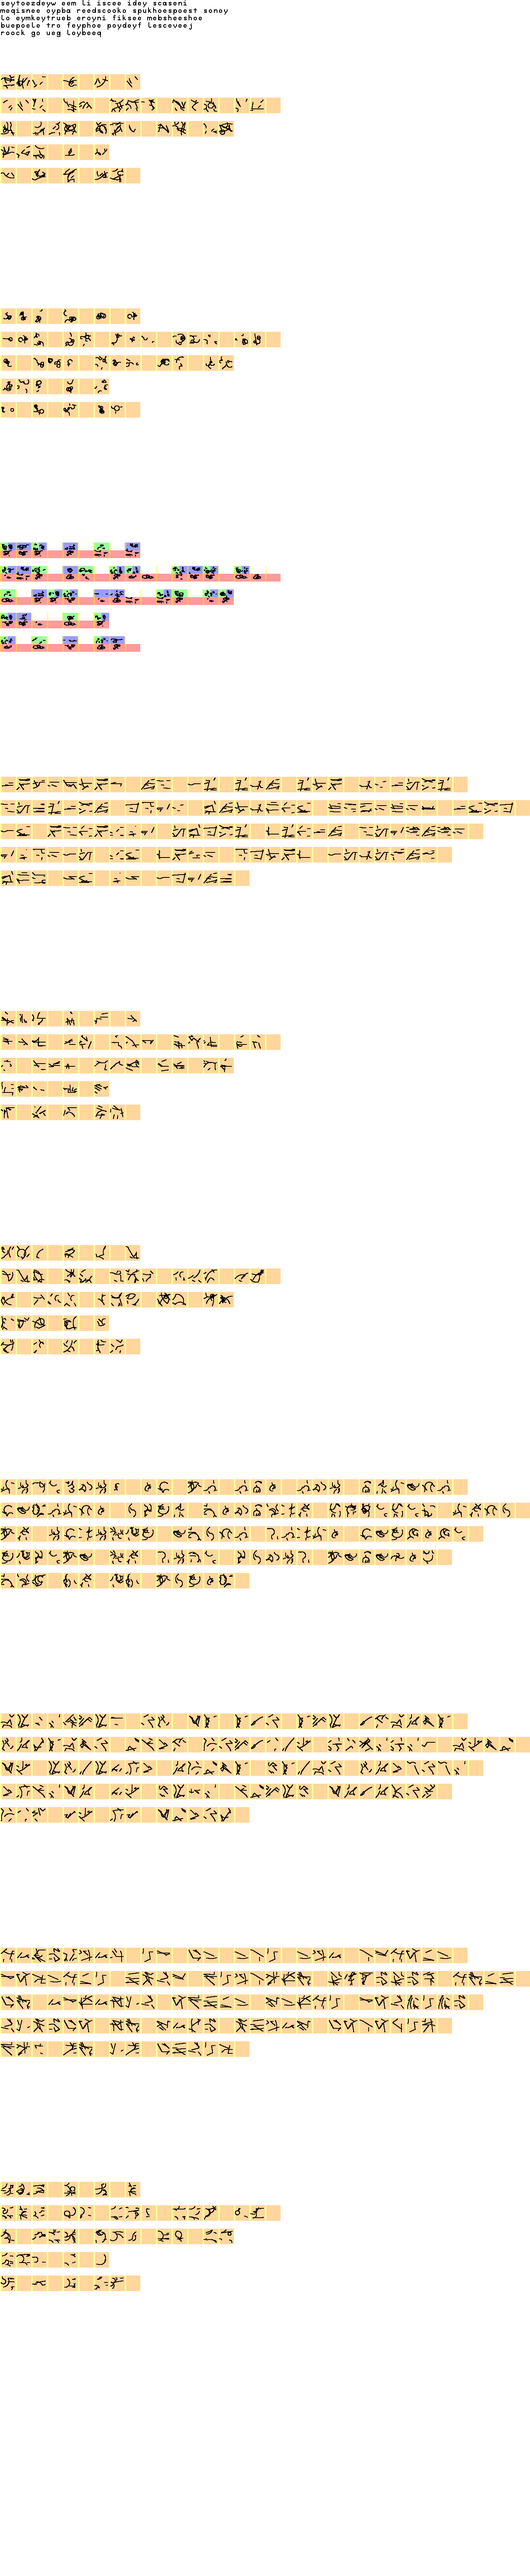
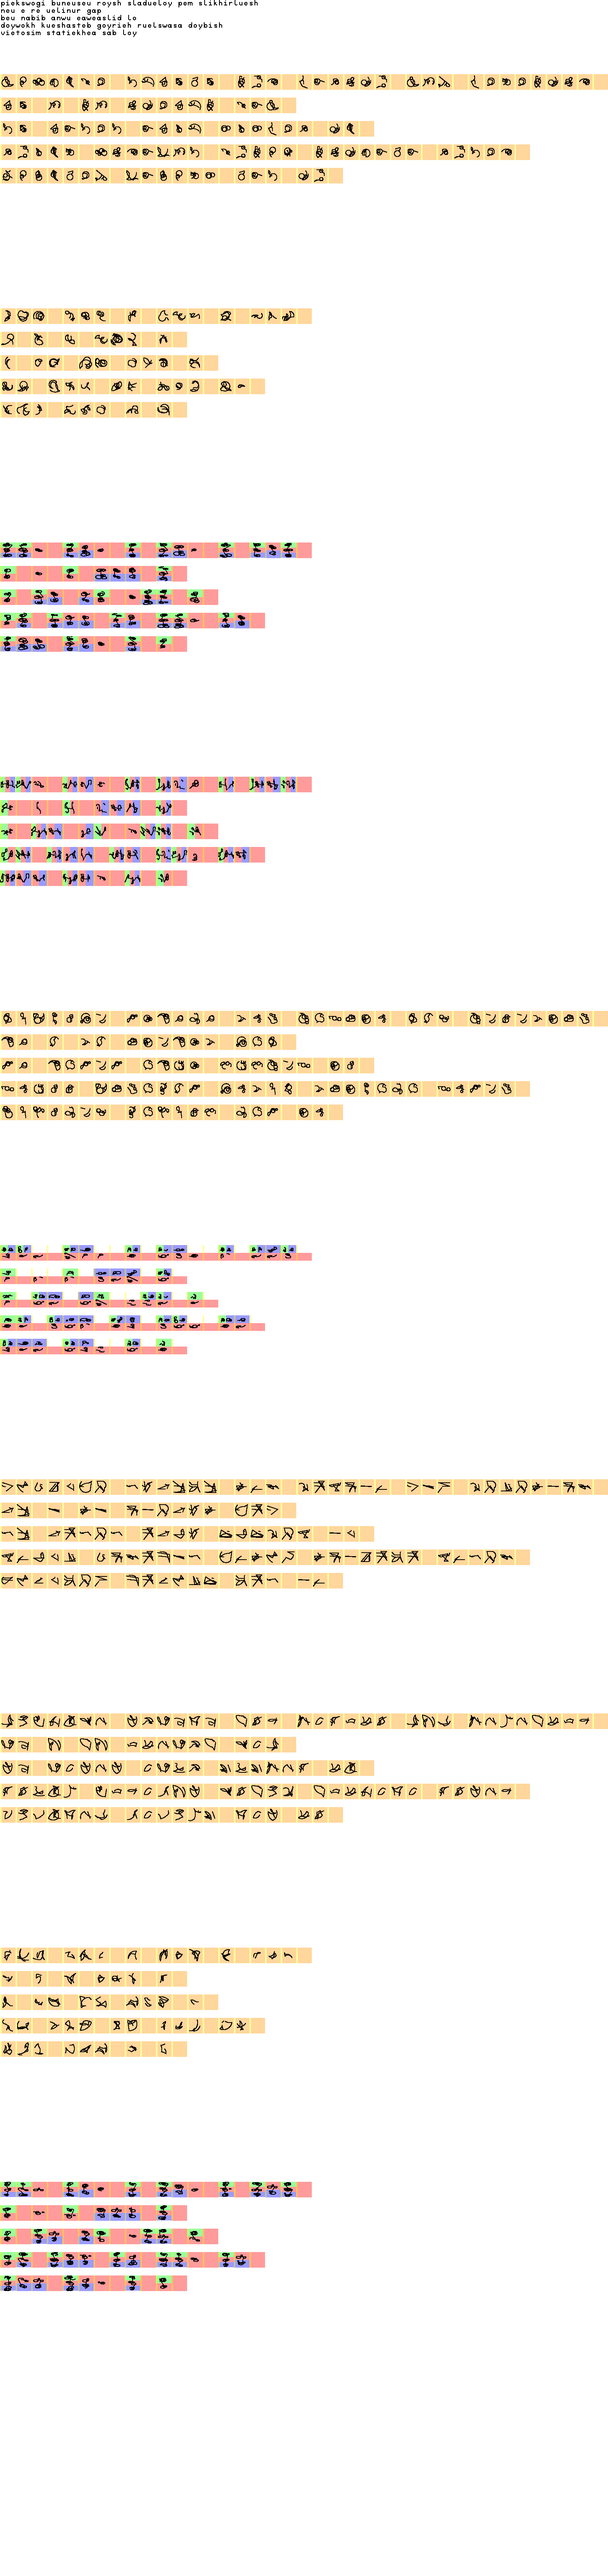
Bug fixed glyphs

diff --git a/tests/com/redsquare/citizen/systems/language/WritingSystemTests.java b/tests/com/redsquare/citizen/systems/language/WritingSystemTests.java
@@ -31,10 +31,10 @@ public class WritingSystemTests {
   public static void main(String[] args) {
     WritingSystemTests testInstance = new WritingSystemTests();
 
-    testLoop(testInstance::customiseEverything, 20);
-    testLoop(testInstance::fontCompare, 20);
-    testLoop(testInstance::allSettlementsInNativeTongue, 0);
-    testLoop(testInstance::glyphGeneration, 20);
+    testLoop(testInstance::customiseEverything, 50);
+    testLoop(testInstance::fontCompare, 50);
+    testLoop(testInstance::allSettlementsInNativeTongue, 50);
+    testLoop(testInstance::glyphGeneration, 100);
   }
 
   private static void testLoop(Runnable test, int iterations) {
@@ -101,22 +101,22 @@ public class WritingSystemTests {
 
     WritingSystem.Type type = WritingSystem.Type.ALPHABET;
 
-    double avgLineCurve = 0.0; // 0 - 1 skewed ^2
-    double curveDeviationMax = 0.9; // 0.1 - 0.9
-    double deviationProb = 0.2;
+    double avgLineCurve = 0.2; // 0 - 1 skewed ^2
+    double curveDeviationMax = 0.3; // 0.1 - 0.9
+    double deviationProb = 0.1;
     double avgLineLength = 0.8; // 0 - 1
     double avgContinuationProb = 0.95; // 0.5 - 1
     double continuationDeviationMax = 0.1; // 0 - 0.5
-    double commonElemProbability = 0.7; // 0 - 1
+    double commonElemProbability = 0.8; // 0 - 1
 
     double directionalProclivity = 0.9; // 0 - 1
-    Set<Integer> directionSet = Set.of(0, 90, 180, 270, 45, 135, 225, 315);
+    Set<Integer> directionSet = Set.of(270, 300, 0);
     int maxDirectionSkew = 5; // 0 - 30
 
     double startPointProclivity = 0.75; // 0.5 - 1
-    Set<double[]> startPoints = Set.of(new double[] { 0.15, 0.5 },
-            new double[] { 0.85, 0.5 }, new double[] { 0.5, 0.15 },
-            new double[] { 0.5, 0.85 }  );
+    Set<double[]> startPoints = Set.of(new double[] { 0.5, 0.15 },
+            new double[] { 0.5, 0.5 }, new double[] { 0.15, 0.5 },
+            new double[] { 0.85, 0.5 }  );
 
     boolean compSyllabaryConnected = false;
     WritingSystem.CompSyllabaryConfig compSyllabaryConfig =

diff --git a/src/com/redsquare/citizen/systems/language/Glyph.java b/src/com/redsquare/citizen/systems/language/Glyph.java
@@ -281,7 +281,10 @@ class Glyph {
   }
 
   private void buildComponents(WritingSystem ws) {
-    int compCount = 9 - (int) Math.round(Math.pow(Math.random(), 2) * 6);
+    int max = ws.type == WritingSystem.Type.COMPONENT_SYLLABARY
+            ? 5 : 7;
+
+    int compCount = max - (int) Math.round(Math.pow(Math.random(), 2) * (max - 3));
 
     // common element
     if (Math.random() < ws.commonElemProbability)
@@ -299,6 +302,8 @@ class Glyph {
                       (Math.random() < 0.5 ?
                               GlyphComponent.continuing(last, true, ws) :
                               GlyphComponent.continuing(last, false, ws)));
+
+      if (current.endsOutOfBounds()) continue;
 
       components.add(current);
       last = current;

diff --git a/src/com/redsquare/citizen/systems/language/GlyphComponent.java b/src/com/redsquare/citizen/systems/language/GlyphComponent.java
@@ -13,7 +13,6 @@ import java.util.function.Function;
 class GlyphComponent {
   private static final double MAX_DIST_BETWEEN_POINTS = 0.02;
   private static final int DEGREES_IN_A_CIRCLE = 360;
-  private static final int LINE_WIDTH = 2;
   private static final double DANGER_ZONE = 0.4;
 
   private final int initialDirection; // deg 0 - 359 (unit circle ->, counter-clockwise)
@@ -235,7 +234,7 @@ class GlyphComponent {
     Graphics2D g = (Graphics2D) comp.getGraphics();
 
     g.setColor(new Color(0, 0, 0));
-    g.setStroke(new BasicStroke(LINE_WIDTH));
+    g.setStroke(new BasicStroke(Math.max(1, size / 20)));
 
     for (int i = 1; i < points.size(); i++) {
       Point from = new Point((int) (points.get(i - 1).x * size),
